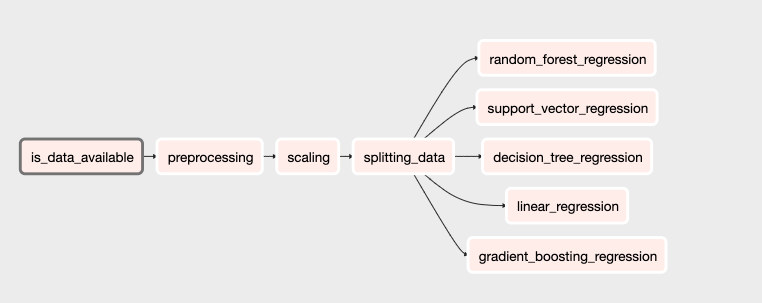
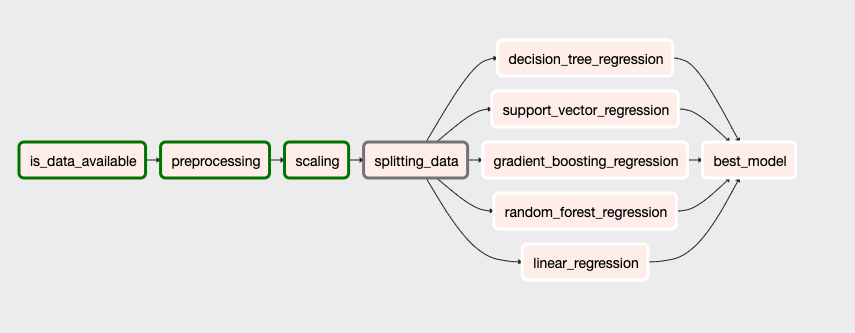
Extended the results to show best model amongst them

Changed region(s): [[0.0, 0.1485, 0.9357, 0.7426], [0.5433, 0.7129, 0.8753, 0.8911], [0.7848, 0.7426, 0.815, 0.7723]]

diff --git a/ML_model/dags/basic-pipeline.py b/ML_model/dags/basic-pipeline.py
@@ -4,6 +4,8 @@ from datetime import datetime, timedelta
 import pandas as pd
 import numpy as np
 import os
+import sqlite3
+
 from airflow.models import Variable
 from sklearn.model_selection import train_test_split
 from sklearn.preprocessing import MinMaxScaler
@@ -26,6 +28,7 @@ DT_results = dag_config["DT_results"]
 RF_results = dag_config["RF_results"]
 SVR_results = dag_config["SVR_results"]
 GBR_results = dag_config["GBR_results"]
+BestModel_results = dag_config["BestModel_results"]
 
 # Checking if Data is availabe
 def data_is_available(_file_name=data_path, **kwargs):
@@ -159,6 +162,48 @@ def model_5_GBR(_file_name=training_data, _test_file=testing_data, **kwargs):
     test_results.to_csv(GBR_results)
     print(test_results)
 
+def best_model(m1=LR_results, m2=DT_results, m3=RF_results, m4=SVR_results, m5=GBR_results, best=BestModel_results, **kwargs):
+    dt = pd.read_csv(m2)
+    rf = pd.read_csv(m3)
+    gbr = pd.read_csv(m5)
+    lr = pd.read_csv(m1)
+    svr = pd.read_csv(m4)
+    conn = sqlite3.connect(':memory:')
+    dt.to_sql('dt',conn,index=False)
+    rf.to_sql('rf',conn,index=False)
+    gbr.to_sql('gbr',conn,index=False)
+    lr.to_sql('lr',conn,index=False)
+    svr.to_sql('svr',conn,index=False)
+    tmp=pd.read_sql_query('''select dt."Unnamed: 0" as ErrorMetric,
+    case
+    when dt."Unnamed: 0"<>'Adjusted_RSquare_test' and dt."Test Values"<rf."Test Values" and dt."Test Values"<gbr."Test Values" and dt."Test Values"<lr."Test Values" and dt."Test Values"<svr."Test Values"
+        then 'DT'
+    when dt."Unnamed: 0"<>'Adjusted_RSquare_test' and rf."Test Values"<dt."Test Values" and rf."Test Values"<gbr."Test Values" and rf."Test Values"<lr."Test Values" and rf."Test Values"<svr."Test Values"
+        then 'RF'
+    when dt."Unnamed: 0"<>'Adjusted_RSquare_test' and gbr."Test Values"<dt."Test Values" and gbr."Test Values"<rf."Test Values" and gbr."Test Values"<lr."Test Values" and gbr."Test Values"<svr."Test Values"
+        then 'GBR'
+    when dt."Unnamed: 0"<>'Adjusted_RSquare_test' and lr."Test Values"<dt."Test Values" and lr."Test Values"<rf."Test Values" and lr."Test Values"<gbr."Test Values" and lr."Test Values"<svr."Test Values"
+        then 'LR'
+    when dt."Unnamed: 0"<>'Adjusted_RSquare_test' and svr."Test Values"<dt."Test Values" and svr."Test Values"<rf."Test Values" and svr."Test Values"<lr."Test Values" and svr."Test Values"<gbr."Test Values"
+        then 'SVR'
+    when dt."Unnamed: 0"='Adjusted_RSquare_test' and dt."Test Values">rf."Test Values" and dt."Test Values">gbr."Test Values" and dt."Test Values">lr."Test Values" and dt."Test Values">svr."Test Values"
+        then 'DT'
+    when dt."Unnamed: 0"='Adjusted_RSquare_test' and rf."Test Values">dt."Test Values" and rf."Test Values">gbr."Test Values" and rf."Test Values">lr."Test Values" and rf."Test Values">svr."Test Values"
+        then 'RF'
+    when dt."Unnamed: 0"='Adjusted_RSquare_test' and gbr."Test Values">dt."Test Values" and gbr."Test Values">rf."Test Values" and gbr."Test Values">lr."Test Values" and gbr."Test Values">svr."Test Values"
+        then 'GBR'
+    when dt."Unnamed: 0"='Adjusted_RSquare_test' and lr."Test Values">dt."Test Values" and lr."Test Values">rf."Test Values" and lr."Test Values">gbr."Test Values" and lr."Test Values">svr."Test Values"
+        then 'LR'
+    when dt."Unnamed: 0"='Adjusted_RSquare_test' and svr."Test Values">dt."Test Values" and svr."Test Values">rf."Test Values" and svr."Test Values">lr."Test Values" and svr."Test Values">gbr."Test Values"
+        then 'SVR'
+    end as BestModel
+    from dt
+    inner join rf on dt."Unnamed: 0"=rf."Unnamed: 0"
+    inner join gbr on gbr."Unnamed: 0"=rf."Unnamed: 0"
+    inner join lr on lr."Unnamed: 0"=gbr."Unnamed: 0"
+    inner join svr on svr."Unnamed: 0"=lr."Unnamed: 0"''',conn)
+    tmp.to_csv(best)
+
 project_cfg = {
     'owner': 'airflow',
     'email': ['your-email@example.com'],
@@ -236,4 +281,11 @@ task_5_5 = PythonOperator(
     dag=dag,
 )
 
-task_1 >> task_2 >> task_3 >> task_4 >> [task_5_1, task_5_2, task_5_3, task_5_4, task_5_5]
+task_6 = PythonOperator(
+    task_id='best_model',
+    provide_context=True,
+    python_callable=best_model,
+    dag=dag,
+)
+
+task_1 >> task_2 >> task_3 >> task_4 >> [task_5_1, task_5_2, task_5_3, task_5_4, task_5_5] >> task_6
